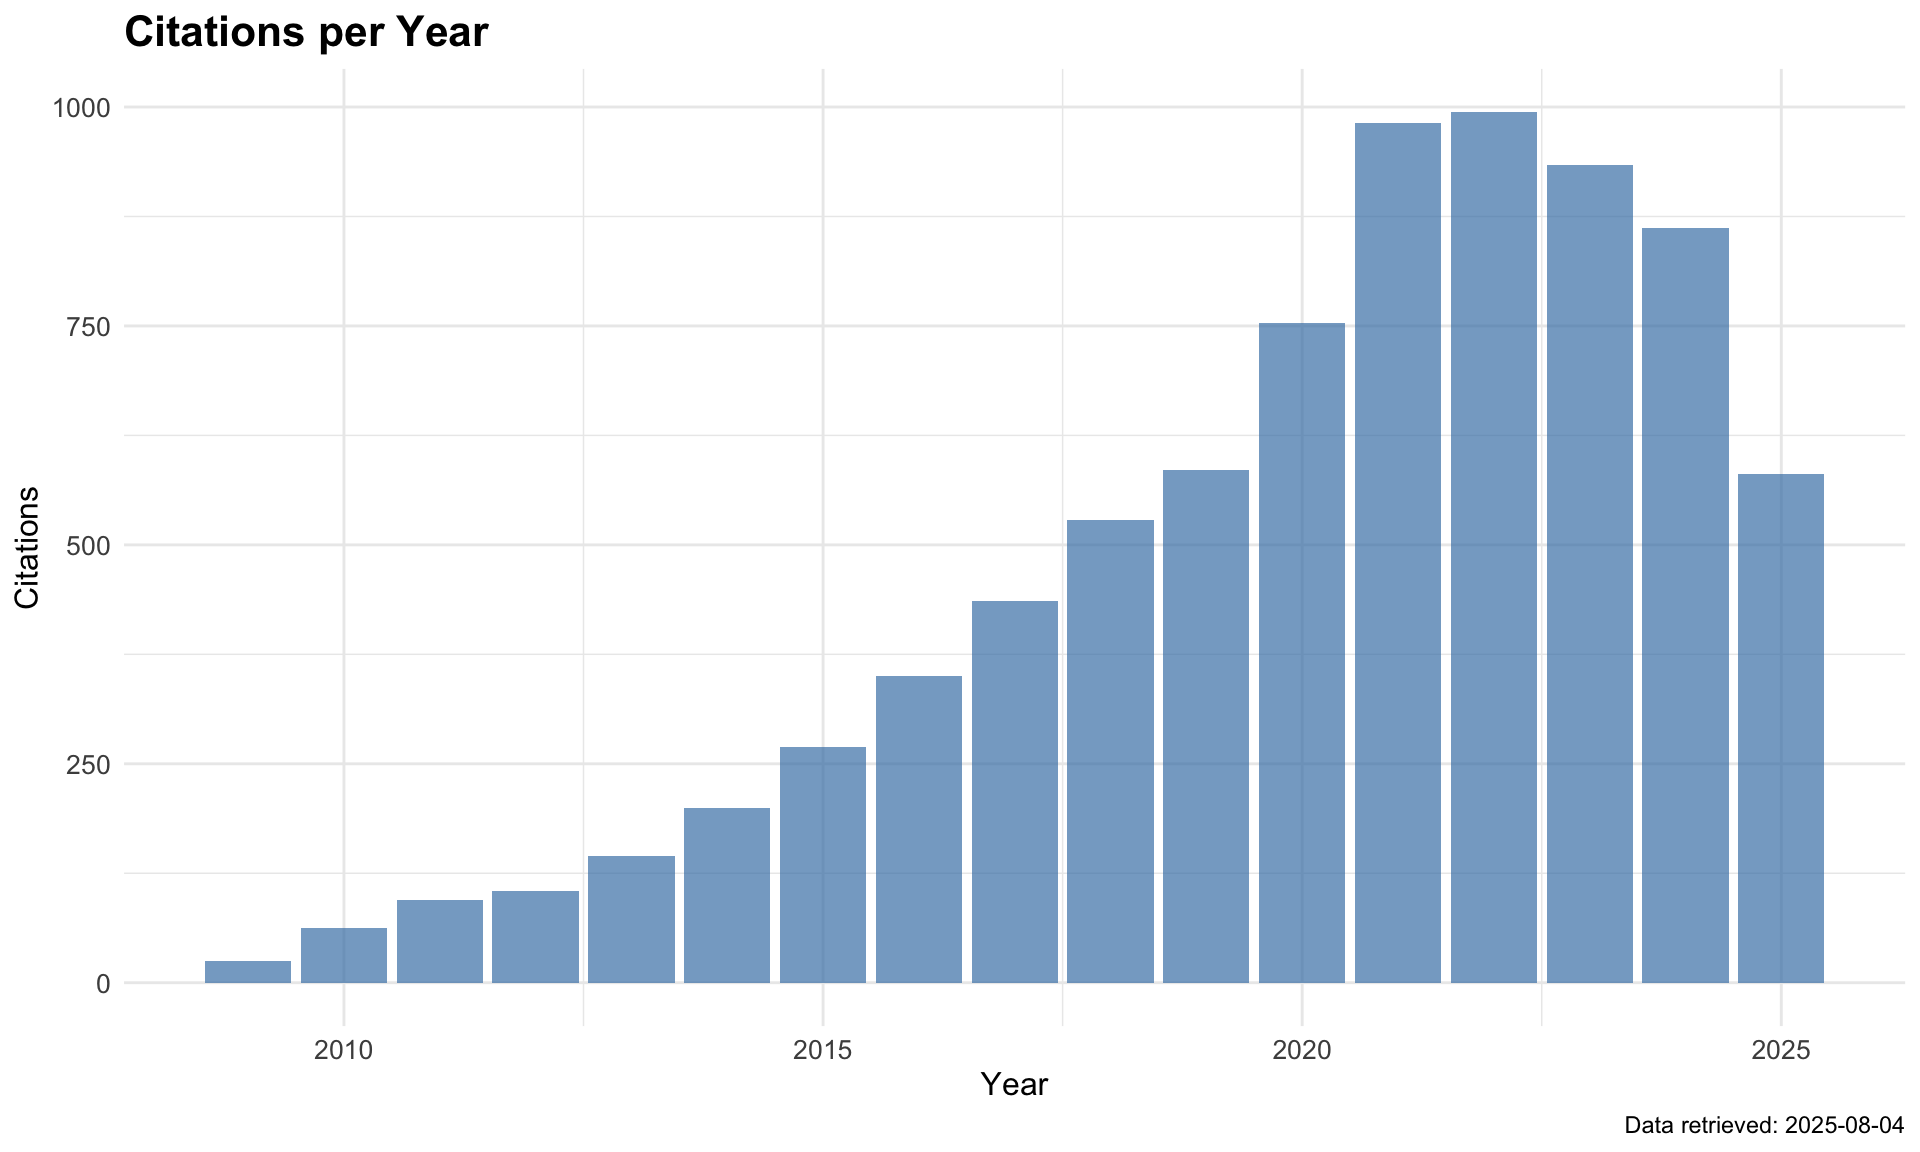
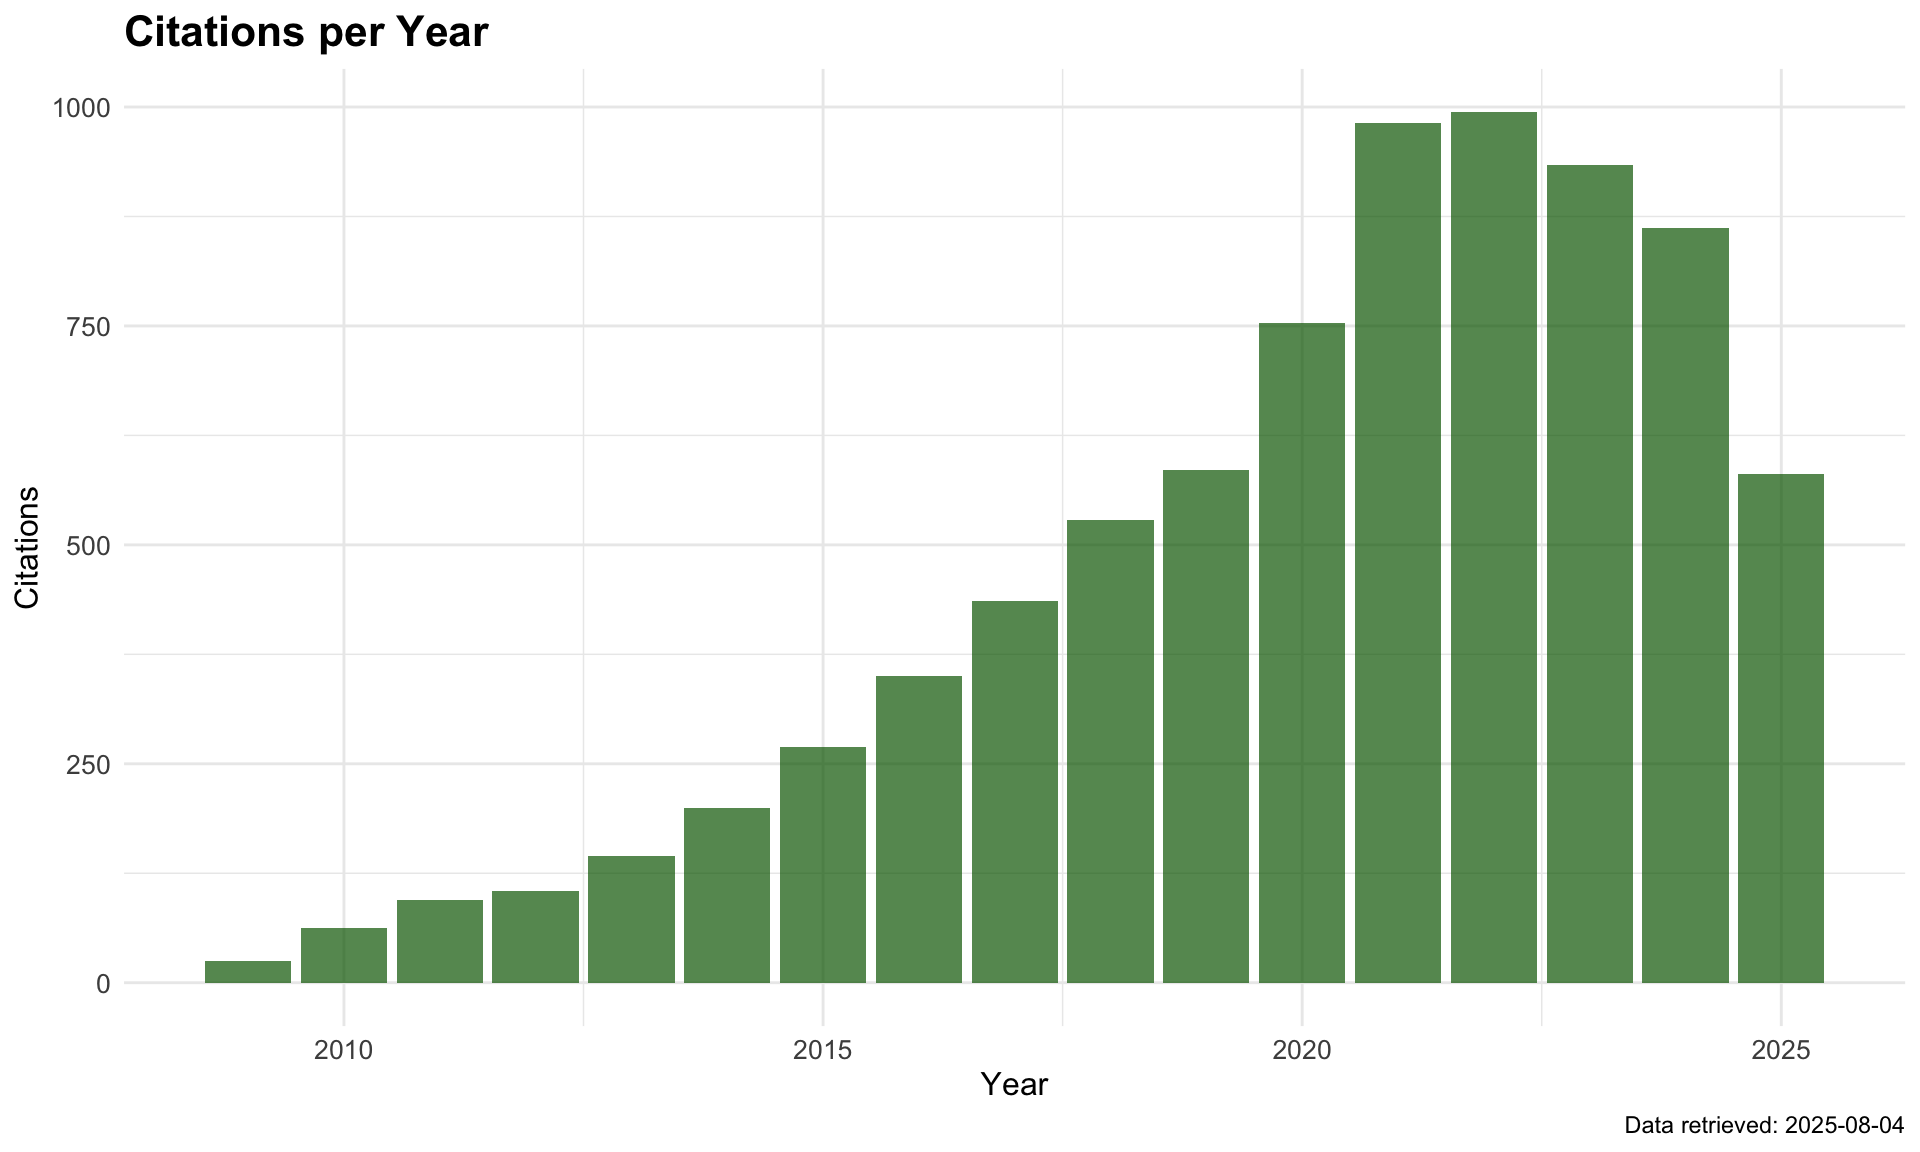
Update citation plot color and blog post link text
Changed the citation plot bar color from steelblue to darkgreen for improved visual distinction. Simplified the blog post link text in both Rmd and md files for recent publications. Updated the citation plot image to reflect the new color.

Changed region(s): [[0.0938, 0.0938, 0.9688, 0.875]]

diff --git a/content/publications/index.md b/content/publications/index.md
@@ -59,7 +59,7 @@ Paleoceanography and Paleoclimatology  ( 2025 )
 
 Nature Communications  ( 2024 ) • Citations:  39
 
-📖 **[Read my blog post about this research](/blog/4.2ka-event-not-remarkable/)**
+📖 **[Read blog post about this research](/blog/4.2ka-event-not-remarkable/)**
 
 ---
 
@@ -69,7 +69,7 @@ Nature Communications  ( 2024 ) • Citations:  39
 
 The Cryosphere  ( 2024 ) • Citations:  5
 
-📖 **[Read my blog post about this research](/blog/arctic-snowline-rise/)**
+📖 **[Read blog post about this research](/blog/arctic-snowline-rise/)**
 
 ---
 
@@ -111,7 +111,7 @@ Earth System Science Data  ( 2024 ) • Citations:  1
 
 Climate of the Past  ( 2024 )
 
-📖 **[Read my blog post about this research](/blog/damp21ka-data-assimilation/)**
+📖 **[Read blog post about this research](/blog/damp21ka-data-assimilation/)**
 
 ---
 
